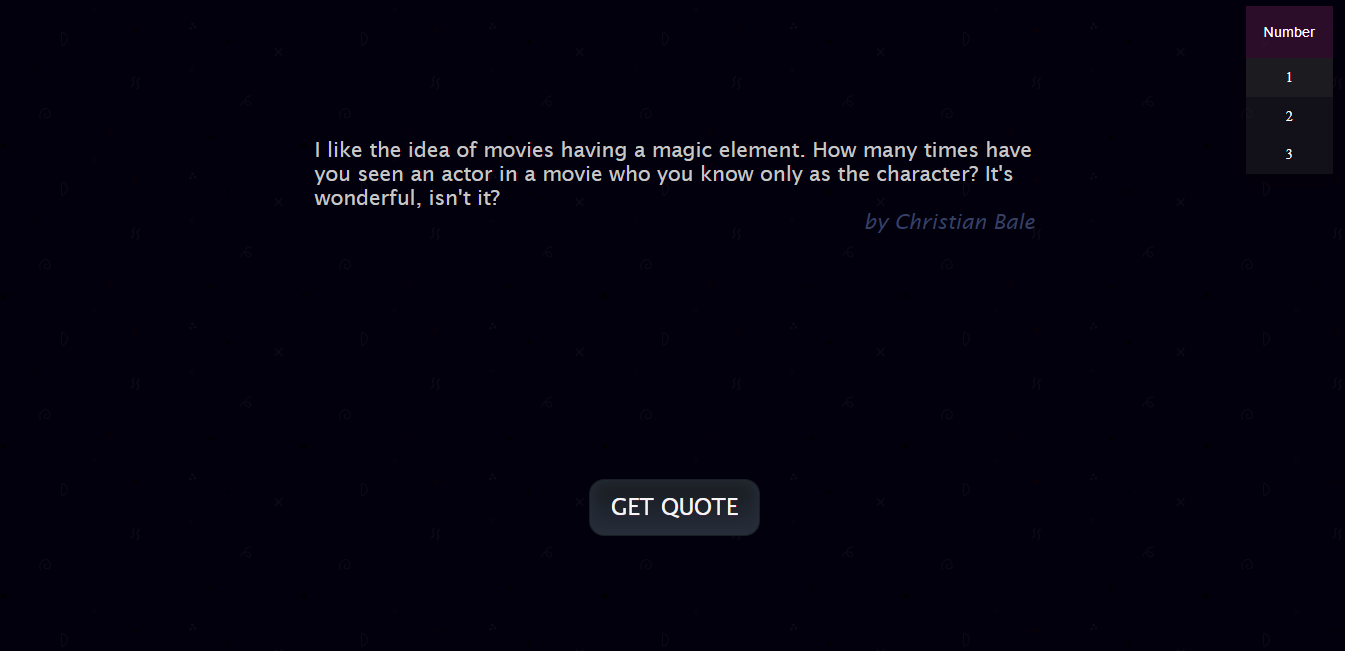
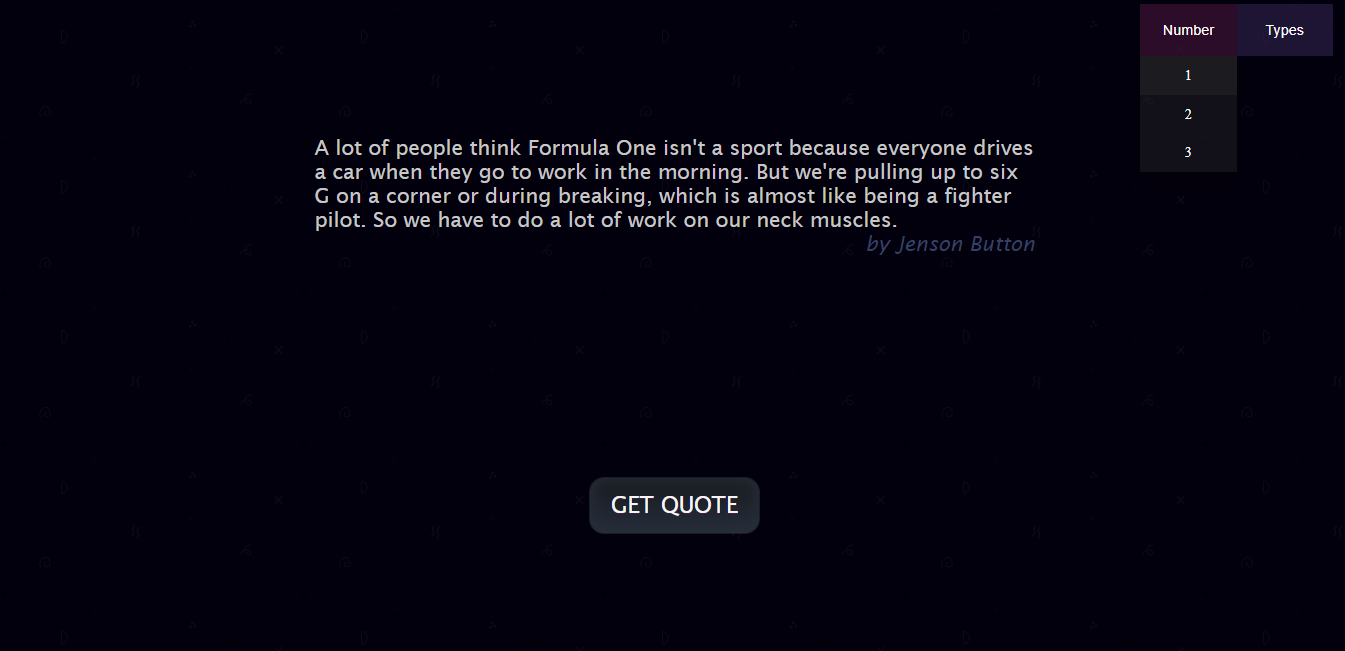
filter by type and number

Changed region(s): [[0.2186, 0.2151, 0.7807, 0.3994], [0.8431, 0.0, 0.9993, 0.1536], [0.4372, 0.7373, 0.5621, 0.7988]]

diff --git a/quotesgenerator/src/store/actions/index.js b/quotesgenerator/src/store/actions/index.js
@@ -13,7 +13,20 @@ export const setQuotes = (quotes) => {
     payload: quotes,
   };
 };
-
+export const setTags = (tags) => {
+  let tagList = [];
+  tags.map((tag) => tagList.push(tag.name));
+  return {
+    type: "FETCH_TAGS",
+    payload: tagList,
+  };
+};
+export const setTag = (tag) => {
+  return {
+    type: "SET_TAG",
+    payload: tag,
+  };
+};
 export const setRandomQuotes = (quote) => {
   return {
     type: "FETCH_RANDOM_QUOTE",
@@ -21,18 +34,53 @@ export const setRandomQuotes = (quote) => {
   };
 };
 
+export const setFilteredQuotes = (quote) => {
+  return {
+    type: "FILTER_BY_TAG",
+    payload: quote,
+  };
+};
 export const errorQuotes = (err) => {
   return {
     type: "ERROR_QUOTES",
     payload: err,
   };
 };
+
+export const filterByTag = (number, tag) => {
+  return (dispatch) => {
+    axios
+      .get(
+        `https://goquotes-api.herokuapp.com/api/v1/random/${number}?type=tag&val=${tag}`
+      )
+      .then((res) => {
+        console.log(res.data.quotes);
+        dispatch(setFilteredQuotes(res.data.quotes));
+      })
+      .catch((err) => {
+        dispatch(errorQuotes(err));
+      });
+  };
+};
+
 export const getQuotes = () => {
   return (dispatch) => {
     axios
       .get("https://goquotes-api.herokuapp.com/api/v1/all/quotes")
       .then((res) => {
         dispatch(setQuotes(res.data.quotes));
+      })
+      .catch((err) => {
+        dispatch(errorQuotes(err));
+      });
+  };
+};
+export const getTags = () => {
+  return (dispatch) => {
+    axios
+      .get("https://goquotes-api.herokuapp.com/api/v1/all/tags")
+      .then((res) => {
+        dispatch(setTags(res.data.tags));
       })
       .catch((err) => {
         dispatch(errorQuotes(err));

diff --git a/quotesgenerator/src/components/Home.js b/quotesgenerator/src/components/Home.js
@@ -1,25 +1,25 @@
 import React, { useState, useEffect } from "react";
 import { useSelector, useDispatch } from "react-redux";
-import { getRandomQuotes, getQuotes } from "../store/actions";
+import { getRandomQuotes, filterByTag } from "../store/actions";
 import Quote from "./Quote";
 import { v4 as uuidv4 } from "uuid";
 
 const Home = () => {
   const dispatch = useDispatch();
   const [generate, setGenerate] = useState(false);
-  const allQuotes = useSelector((state) => state.quotes);
-  const loading = useSelector((state) => state.loading);
   const number = useSelector((state) => state.numberOfQuotes);
   const randomQuotes = useSelector((state) => state.randomQuotes);
+  const tag = useSelector((state) => state.tag);
 
   useEffect(() => {
-    dispatch(getQuotes());
-  }, [dispatch]);
+    if (tag === "") {
+      dispatch(getRandomQuotes(number));
+    } else {
+      dispatch(filterByTag(number, tag));
+    }
 
-  useEffect(() => {
-    dispatch(getRandomQuotes(number));
     setGenerate(false);
-  }, [dispatch, generate, number]);
+  }, [dispatch, generate, number, tag]);
 
   const handleClick = () => {
     setGenerate(true);

diff --git a/quotesgenerator/src/components/Header.js b/quotesgenerator/src/components/Header.js
@@ -1,11 +1,35 @@
-import React from "react";
+import React, { useEffect } from "react";
+import { useSelector, useDispatch } from "react-redux";
+import { getTags, setTag, filterByTag } from "../store/actions";
 import DropdownNumbers from "./DropdownNumbers";
 
 const Header = ({ setNumber }) => {
+  const dispatch = useDispatch();
+  const tags = useSelector((state) => state.tags);
+  const number = useSelector((state) => state.numberOfQuotes);
+
+  useEffect(() => {
+    dispatch(getTags());
+  }, [dispatch]);
+
+  const handleFilter = (tag2) => {
+    dispatch(setTag(tag2));
+    dispatch(filterByTag(number, tag2));
+  };
   return (
     <div className="header">
       <div className="dropdowns">
         <DropdownNumbers setNumber={setNumber} />
+        <div className="dropdown">
+          <button className="dropbtn">Types</button>
+          <div className="dropdown-content">
+            {tags.map((tag2) => (
+              <div key={tag2} onClick={() => handleFilter(tag2)}>
+                {tag2}
+              </div>
+            ))}
+          </div>
+        </div>
       </div>
     </div>
   );

diff --git a/quotesgenerator/src/store/reducers/index.js b/quotesgenerator/src/store/reducers/index.js
@@ -1,6 +1,8 @@
 const reducer = (
   state = {
     quotes: [],
+    tags: [],
+    tag: "",
     randomQuotes: [
       {
         text: "Your daily quote is...",
@@ -21,6 +23,11 @@ const reducer = (
         quotes: action.payload,
         loading: false,
       };
+    case "FETCH_TAGS":
+      return {
+        ...state,
+        tags: action.payload,
+      };
     case "ERROR_QUOTES":
       return {
         ...state,
@@ -28,6 +35,7 @@ const reducer = (
         error: action.payload,
       };
     case "FETCH_RANDOM_QUOTE":
+    case "FILTER_BY_TAG":
       return {
         ...state,
         loading: false,
@@ -38,6 +46,13 @@ const reducer = (
         ...state,
         numberOfQuotes: action.payload,
       };
+    case "SET_TAG": {
+      return {
+        ...state,
+        tag: action.payload,
+      };
+    }
+
     default:
       return state;
   }

diff --git a/quotesgenerator/src/App.css b/quotesgenerator/src/App.css
@@ -77,6 +77,7 @@ body {
   font-size: 16px;
   border: none;
   cursor: pointer;
+  width: 107px;
 }
 
 /* The container <div> - needed to position the dropdown content */
@@ -90,7 +91,7 @@ body {
   display: none;
   position: absolute;
   background-color: #2c2c2c5e;
-  min-width: 97px;
+  width: 107px;
   box-shadow: 0px 8px 16px 0px rgba(0, 0, 0, 0.2);
   z-index: 1;
   text-align: center;
@@ -100,6 +101,7 @@ body {
 .dropdown-content div {
   color: white;
   padding: 12px 16px;
+
   text-decoration: none;
   display: block;
   cursor: pointer;

diff --git a/README.md b/README.md
@@ -18,4 +18,4 @@ All of the data is fetched using a [public API.](<https://goquotes.docs.apiary.i
 
 ## Built with
 
-- ReactJS
+- ReactJS, Redux
